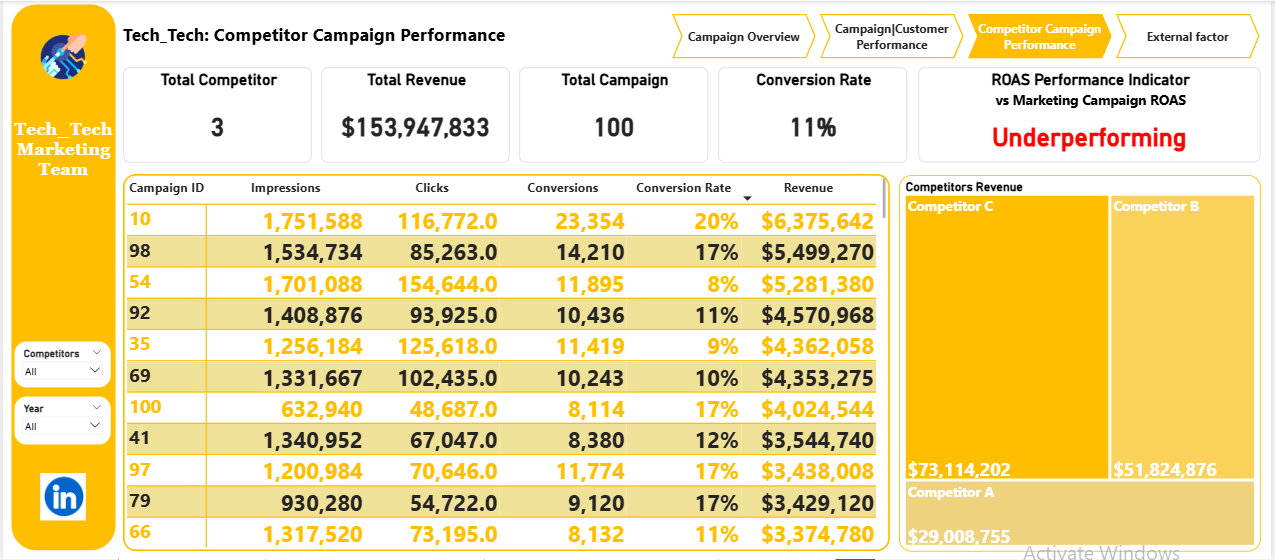
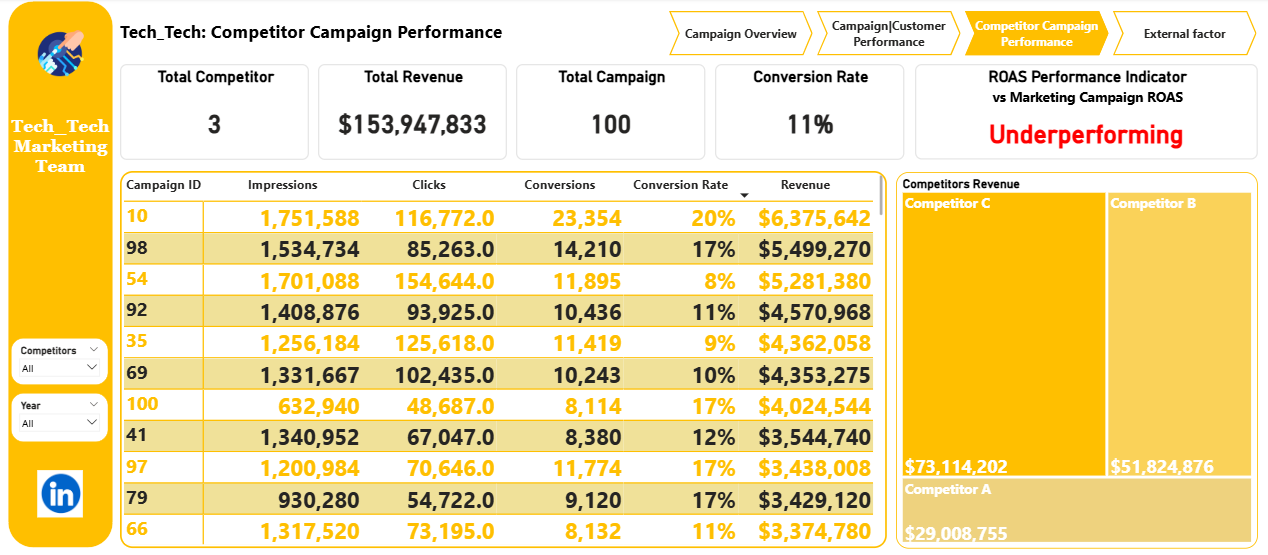
Add files via upload

diff --git a/freshcart.html b/freshcart.html
@@ -1,0 +1,147 @@
+<!DOCTYPE HTML>
+<!--
+	Massively by HTML5 UP
+	html5up.net | @ajlkn
+	Free for personal and commercial use under the CCA 3.0 license (html5up.net/license)
+-->
+<html>
+	<head>
+		<title>frershcart</title>
+		<meta charset="utf-8" />
+		<meta name="viewport" content="width=device-width, initial-scale=1, user-scalable=no" />
+		<link rel="stylesheet" href="assets/css/main.css" />
+		<noscript><link rel="stylesheet" href="assets/css/noscript.css" /></noscript>
+	</head>
+	<body class="is-preload">
+
+		<!-- Wrapper -->
+			<div id="wrapper">
+
+				<!-- Header -->
+					<header id="header">
+						<a href="freshcart.html" class="logo">Analysis</a>
+					</header>
+
+				<!-- Nav -->
+					<nav id="nav">
+						<ul class="links">
+							<li class="active"><a href="index.html">Home</a></li>
+						</ul>
+						<ul class="icons">
+							<li><a href="https://www.linkedin.com/in/chidinma-okereafor" class="icon brands alt fa-linkedin"><span class="label">LinkedIn</span></a></li>
+									<li><a href="https://twitter.com/theokereafor" class="fa-brands fa-x-twitter"></i><span class="label">X</span></a></li>
+									<li><a href="https://www.instagram.com/theokereafor" class="icon brands alt fa-instagram"><span class="label">Instagram</span></a></li>
+									<li><a href="https://github.com/Dinmahub" class="icon brands alt fa-github"><span class="label">GitHub</span></a></li>
+						</ul>
+					</nav>
+
+				<!-- Main -->
+					<div id="main">
+
+						<!-- Post -->
+							<section class="post">
+								<h3>1. Project Title & Company Review</h3>
+								<p>Digital Ad Genius: Maximizing E-commerce Impact with Precision Digital Marketing Analytics<br/>
+                                INDUSTRY: FMCG<br/>
+                                FreshCart, like many e-commerce platforms, relies heavily on online advertising to acquire new customers and retain existing ones. As the competition in the online grocery sector has skyrocketed, the cost of customer acquisition is rising.
+                                FreshCart is looking for the most efficient way to save cost and optimize its digital Ad spend.</p>
+                                <p>ROLE: Marketing Data Analyst.</p>
+								<h3>2. Business Problem</h3>
+								<p>However, in the midst of an increasingly competitive market and fluctuating Ad costs, the company has identified two main challenges:<br/>
+- Inefficient Ad Spend: The company suspects that not every dollar spent on digital advertising is yielding the desired ROI. Some campaigns may be costing more than they return in revenue.<br/>
+- Identifying Effective Channels: With multiple platforms available for advertising, from search engines to social media, FreshCart is finding it challenging to determine which channels offer the best return on investment.</p>
+								<h3>3. Business Objectives</h3>
+								<p>This project aims to analyze FreshCart past advertising data and create a strategy to optimize its digital Ad spending. The specific objectives are:<br/>
+- Evaluate the effectiveness of current advertising campaigns across platforms.<br/>
+- Identify top-performing channels for advertising.<br/>
+- Assess demography, engagement, and conversion rates.<br/>
+- Recommend strategies for better budget allocation.</p>
+								<h3>4. My Approach</h3>
+								<p>- Data Integration: I connected the Excel (data source) to Power BI.<br/>
+- Data Cleaning: Clean data and transform it to the required format in Power Query.<br/>
+- Data Modeling: Create data models of the tables in Power BI.<br/>
+- EDA & Visualization: Analyze data, define KPIs, and visualize it in Power BI.<br/>
+- Reporting & Recommendations: Write a report of the analysis and provide recommendations.</p>
+<p>TOOL USED: Power BI</p>
+								<h3>5. Key Deliverables</h3>
+								<p>Delivered a Power BI dashboard to improve data-driven decision.</p>
+								<div class="image main"><img src="dashboards1/Freshcart Marketing overview.PNG" alt="" /></div>
+                                <div class="image main"><img src="dashboards1/Freshcart Marketing analysis.PNG" alt="" /></div>
+								<h3>6. Insights</h3>
+								<p>- The top 10 performing Campaign based on Revenue: CID 16 (£12,004); CID 8 (£8,745); CID 9 (£8,494); CID 24 (£7,708), CID 28 (£4,812); CID 36 (£4,404); CID 45 (£3,777); CID 6 (£3,733); CID 26 (£3,688) and CID 31 (£2,992).<br/>
+- YouTube made the highest Revenue of £29,458, which is 30.2% of the total revenue. Next is Twitter, £28,060, Facebook, £21,502, Instagram, £10,424 and Google Ads, £8,074.<br/>
+- The best performing States in Revenue are Georgia, California, Washington and Florida, with a revenue of £67,281, which is 69% of the Total Revenue (£97,517). The rest of the State: Texas, Pennsylvania, Massachusetts, Arizona, Illinois and New York make up £30,236, which 31% of the Total Revenue.<br/>
+- FreshCart experienced the highest sales in May: £26,841. Before May, sales had a steady increase from January at £2,361 to March at £17,676, before a decline in Sales in April at £5,321. After May, Sales dropped again in June (£12,751) with little increment at the end of August (£13,613).</p>
+								<h3>7. Recommendations</h3>
+								<p>- EVALUATE THE EFFECTIVENESS OF CURRENT ADVERTISING CAMPAIGN ACROSS PLATFORM<br/>
+•	Using ROAS & CPA as a criterion to evaluate the Business Success, the following campaigns were effective: CID 16, 8, 36, 6, 9, 12, 17, 3.<br/>
+•	Using CVR as a criterion to evaluate Ad quality, the following campaigns were effective: CID 16, 8, 36, 6, 31, 46, 11, 33, 5, 13.<br/>
+- IDENTIFY TOP-PERFORMING CHANNELS FOR ADVERTISING<br/>
+•	Based on metrics like ROAS, CPA, CVR, CTR, CPC, Ad Spend and Revenue. YouTube is the best platform; promoting just 9 campaigns, which all together performed well. In relation to the Revenue generated, YouTube had the lowest Ad Spend.<br/>
+•	Next is Twitter, promoting 12 campaigns with the highest CVR among other platforms.<br/>
+•	Finally, Facebook is also an excellent platform for Ad promotion.<br/>
+•	A/B Testing analysis should be implemented on Instagram and Google Ads to examine and improve their overall performance.<br/>
+- ASSESS DEMOGRAPHY, ENGAGEMENT, AND CONVERSION RATES<br/>
+•	California has a total 0.17% CTR (engagement) and 8.45% CVR (conversion rate); this indicates that the campaign's quality converts a lot of customers. In addition, it is one of the locations that performed well in terms of sales.<br/>
+•	Despite poor Revenue, Pennsylvania had a good CVR 7.22%.<br/>
+•	Campaign quality that did well in other locations can be implemented in locations like New York and Illinois that had poor engagement and low conversion.<br/>
+- RECOMMEND STRATEGIES FOR BETTER BUDGET ALLOCATION<br/>
+•	 In terms of Location, the budget can be allocated to Georgia, California, Washington and Florida. Other States that are performing poorly in other metrics, but well in CVR, should be examined properly using A/B Testing on a small scale before upscaling their Ad budget.<br/>
+•	Campaigns that performed badly should be modelled after the campaigns that did well in all parameters to improve their overall performance. It will suffice to say that when poor campaigns are fixed, it will ultimately affect Months that had low revenue.</p>
+
+<h4>METRICS:</h4>
+ROAS:- Return On Ad Spend.<br/>CPA:- Cost Per Acquisition.<br/>
+CVR:- Conversion Rate.<br/>CTR:- Click Through Rate.<br/>
+CPC:- Cost Per Click.<br/>Revenue.<br/>Ad Spend.</p>
+								<ul class="actions special">
+									<li><a href="https://drive.google.com/drive/folders/1TXdu-C7PsJ3R29lU-qKo-dzeLQiz8X61?usp=drive_link" class="button large">Interactive Dashboard</a></li>
+								</ul>
+							</section>
+
+					</div>
+
+				<!-- Footer -->
+					<footer id="footer">
+						<section class="split contact">
+							<section class="alt">
+								<h3>Address</h3>
+								<p>Lagos, Nigeria</p>
+							</section>
+							<section>
+								<h3>Email</h3>
+								<p><a href="mailto:prosperokereafo@gmail.com">prosperokereafo@gmail.com</a></p>
+							</section>
+							<section>
+								<h3>Portfolio Builder</h3>
+								<p><a href="https://wa.link/i968b4">Contact</a></p>
+							</section>
+							<section>
+								<h3>Social</h3>
+								<ul class="icons alt">
+									<li><a href="https://www.linkedin.com/in/chidinma-okereafor" class="icon brands alt fa-linkedin"><span class="label">LinkedIn</span></a></li>
+									<li><a href="https://twitter.com/theokereafor" class="fa-brands fa-x-twitter"></i><span class="label">X</span></a></li>
+									<li><a href="https://www.instagram.com/theokereafor" class="icon brands alt fa-instagram"><span class="label">Instagram</span></a></li>
+									<li><a href="https://github.com/Dinmahub" class="icon brands alt fa-github"><span class="label">GitHub</span></a></li>
+								</ul>
+							</section>
+						</section>
+					</footer> 
+
+				<!-- Copyright -->
+					<div id="copyright">
+						<ul><li>&copy; project</li><li>Design: <a href="https://github.com/Dinmahub">VStudio</a></li></ul>
+					</div>
+
+			</div>
+
+		<!-- Scripts -->
+			<script src="assets/js/jquery.min.js"></script>
+			<script src="assets/js/jquery.scrollex.min.js"></script>
+			<script src="assets/js/jquery.scrolly.min.js"></script>
+			<script src="assets/js/browser.min.js"></script>
+			<script src="assets/js/breakpoints.min.js"></script>
+			<script src="assets/js/util.js"></script>
+			<script src="assets/js/main.js"></script>
+
+	</body>
+</html>

diff --git a/index.html b/index.html
@@ -247,11 +247,22 @@ while public understanding of the broader national security implications remains
 										<h2><a href="techtechmarketing.html">Product Campaign Metrics: Comparing Marketing Campaigns against Competitors<br />
 										Analytics using Power BI</a></h2>
 									</header>
-									<a href="https://drive.google.com/file/d/1F2_VyoX2liTJwcB_iME4mk6hQJncXitU/view?usp=sharing" class="image fit"><img src="dashboards1/Tech Marketing page.PNG" alt="" /></a>
+									<a href="https://drive.google.com/file/d/1OSGjAPKg6_BcKkrP8dg8-2164RU48J2y/view?usp=drive_link" class="image fit"><img src="dashboards1/Tech Marketing Page.PNG" alt="" /></a>
 									<p>This project empowers TechTech to evaluate and optimize marketing campaigns using Power BI.
 									By analyzing campaign metrics and comparing them to competitors, it provides actionable insights to enhance brand visibility and resource allocation.</p>
 									<ul class="actions special">
 										<li><a href="techtechmarketing.html" class="button">View Project</a></li>
+								</article>
+								<article>
+									<header>
+										<h2><a href="freshcart.html">Digital Ad Genius: Maximizing E-commerce Impact with Precision Digital Marketing<br />
+										Analytics using Power BI</a></h2>
+									</header>
+									<a href="https://drive.google.com/file/d/1GH1JZkWWlQmtW-BngCmAIG75GZ_Frigg/view?usp=drive_link" class="image fit"><img src="dashboards1/Freshcart Marketing overview.PNG" alt="" /></a>
+									<p>This project empowers FreshCart to evaluate and optimize marketing campaigns budgets using Power BI.
+									By analyzing campaign metrics and comparing across platforms and States, it provides actionable insights to enhance budget allocation for subsequent campaigns.</p>
+									<ul class="actions special">
+										<li><a href="freshcart.html" class="button">View Project</a></li>
 								</article>
 								<article>
 									<header>

diff --git a/techtechmarketing.html b/techtechmarketing.html
@@ -68,9 +68,10 @@ As a technology trailblazer, TechTech's commitment to excellence is reflected no
 - Data Visualization/Dashboard building.<br/>
 - Insight generation.<br/>
 - Recommendation.</p>
+<p>TOOL USED: Power BI</p>
 								<h3>5. Key Deliverables</h3>
 								<p>Delivered a Power BI dashboard to improve data-driven decision.</p>
-								<div class="image main"><img src="dashboards1/Tech Marketing page.PNG" alt="" /></div>
+								<div class="image main"><img src="dashboards1/Tech Marketing Page.PNG" alt="" /></div>
                                 <div class="image main"><img src="dashboards1/Tech Marketing Customer page.PNG" alt="" /></div>
                                 <div class="image main"><img src="dashboards1/Tech Competitor page.PNG" alt="" /></div>
                                 <div class="image main"><img src="dashboards1/Tech External factor.PNG" alt="" /></div>

diff --git a/README.md b/README.md
@@ -141,6 +141,14 @@ This project empowers TechTech to evaluate and optimize marketing campaigns usin
 [View Project](https://dinmahub.github.io/projects/techtechmarketing.html)
 
 
+### 18. Digital Ad Genius: Maximizing E-commerce Impact with Precision Digital Marketing Analytics
+This project empowers FreshCart to evaluate and optimize marketing campaigns budgets using Power BI by analyzing campaign metrics and comparing across platforms and States, it provides actionable insights to enhance budget allocation for subsequent campaigns.
+
+![image](dashboards1/Freshcart%20Marketing%20overview.PNG)
+
+[View Project](https://dinmahub.github.io/projects/freshcart.html)
+
+
 ### SQL Syntax Analytics using PostgreSQL
 This contain different ranges of syntax & Queries written to generate insights & recommendations which answer Business Challenges.
 
